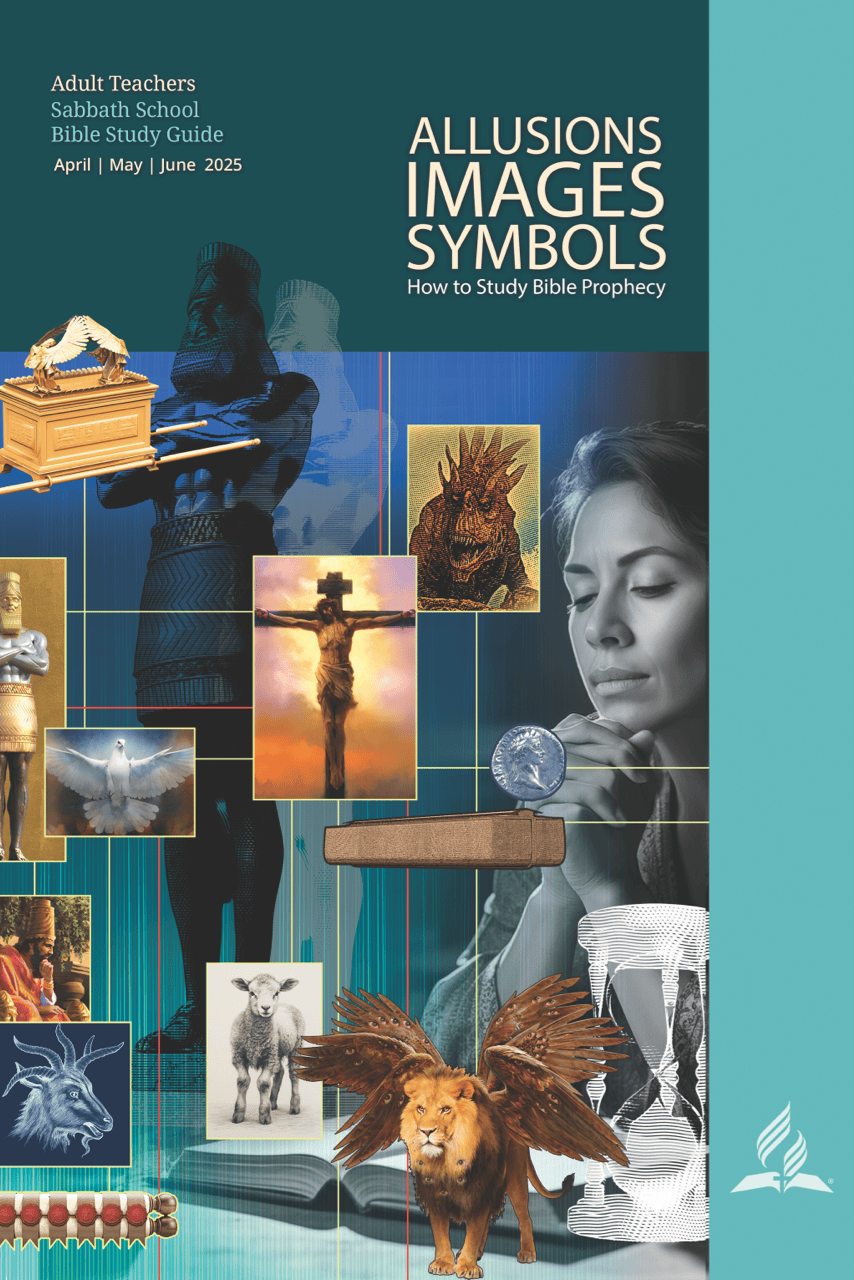
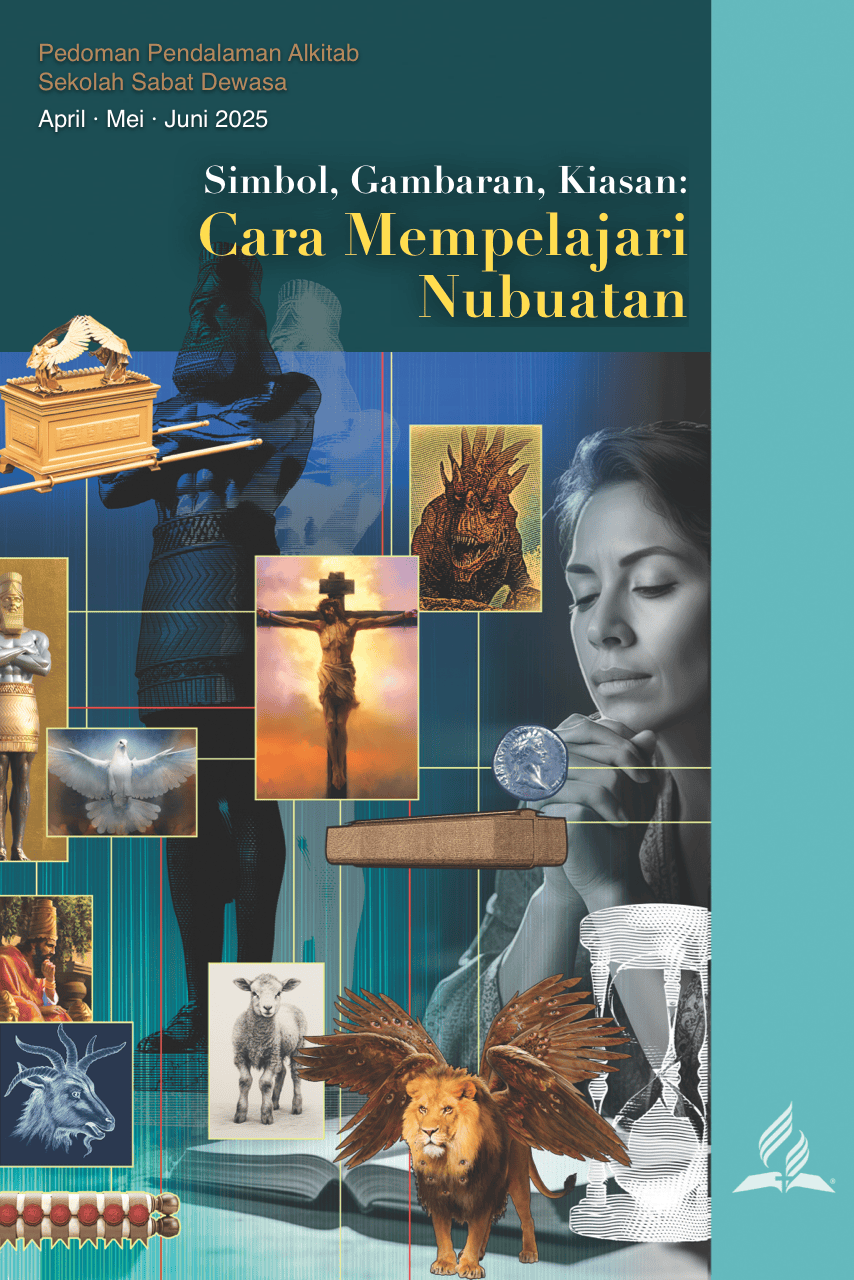
Formatting changes

diff --git a/src/in/2025-02/01/teacher-comments.md b/src/in/2025-02/01/teacher-comments.md
@@ -1,7 +1,73 @@
 ---
-title:  Teacher Comments
+title:  Penuntun guru
 date:   04/04/2025
 ---
 
-### Kami sedang mengerjakan pelajaran ini
-Silahkan kembali lagi nanti
+### Bagian I: Ikhtisar
+
+**Ayat Inti**: Yeremia 9:24.
+
+**Fokus Pelajaran**: 2 Tim. 3:15-17.
+
+Pada awal kelas Alkitabnya setiap semester, seorang profesor seminari melibatkan murid-muridnya dengan pertanyaan sederhana, namun menantang: "Apa alat terpenting yang Anda miliki untuk membantu Anda memahami Alkitab?" Para siswa menawarkan apa yang mereka anggap sebagai jawaban terbaik: "Kamus Alkitab," "doa," "Roh Kudus," "bahasa alkitabiah" (Ibrani, Yunani), "Perangkat lunak Alkitab," dan seterusnya. Setelah mendengarkan semua jawaban mereka, profesor memberi tahu mereka bahwa, sementara semua hal ini, memang, tidak diragukan lagi membantu, ada satu alat yang tidak mereka sebutkan, yaitu, selain doa dan Roh Kudus, sumber daya terpenting mereka dari semuanya: waktu.
+
+Tidak dapat disangkal, salah satu alat terpenting yang dibutuhkan ketika mendekati Kitab Suci adalah satu alat yang, terlalu sering tampaknya, kita memiliki paling sedikit: waktu. Setelah kita siap dan bersedia untuk menginvestasikan waktu dalam usaha mempelajari Alkitab, kita kemudian dituntun untuk mempertimbangkan pertanyaan berikut: Bagaimana kita membaca Alkitab? Artinya, prinsip-prinsip apa yang harus membimbing kita di jalan mencari dan memahami Buku khusus ini?
+
+Tema Pelajaran: Minggu ini, kita akan memeriksa sepuluh prinsip untuk membaca teks nubuatan alkitabiah. Lima prinsip pertama akan fokus pada teks itu sendiri: membacanya secara jujur (sebagai teks baru), membacanya dengan hati-hati (sebagai teks penting), membacanya secara estetis (sebagai teks yang indah), membacanya secara kontekstual (dalam pengaturan alkitabiahnya), dan membacanya secara intertekstual (dalam terang bagian-bagian alkitabiah lainnya).
+
+Lima prinsip berikutnya akan berfokus pada tanggapan kita terhadap teks untuk memastikan bahwa kita mendengarkan Firman Tuhan: prinsip membaca teks secara spiritual (sebagai teks yang terinspirasi), membacanya secara cerdas (sebagai teks yang sulit), membacanya secara korporat (sebagai teks untuk komunitas), membacanya secara eksistensial (sebagai teks yang melibatkan kehidupan kita), dan membacanya secara etis (untuk interpretasi yang bertanggung jawab).
+
+###  Bagian II: Komentar
+
+**Perhatian pada teks**
+
+Teks Alkitab adalah dasar dari setiap diskusi tentang nubuat Alkitab. Oleh karena itu, niat pertama pembaca adalah membaca teks nubuat Alkitab dengan pikiran yang mencari.
+
+1. Membaca dengan jujur. Baca teks seolah-olah itu adalah teks baru yang tidak Anda pahami. Sangat menarik bahwa Daniel sendiri mulai memahami nubuatnya, dalam Daniel 9:2, hanya setelah dia menyadari bahwa dia tidak memahaminya: "itu di luar pemahaman" (Dan. 8:27, NIV). Manusia, Alkitab memberi tahu kita, secara alami berada dalam "kegelapan" (Yohanes l:5, NKJV). Memang, godaan yang paling umum ketika kita mendekati nubuat Alkitab adalah percaya bahwa kita memahami pesannya, bahkan sebelum membaca teksnya. Dengan demikian, kita memaksakan pemikiran kita ke dalam teks (eisegesis), alih-alih membiarkan teks berbicara sendiri (eksegesis). Ini adalah kasus ketika kita membaca nubuat Alkitab dari sudut pandang penalaran kita sendiri atau dalam terang peristiwa yang terjadi di zaman kita.
+2. Membaca dengan Hati-hati. Nubuat Alkitab berisi informasi penting tentang nasib dunia dan kebenaran keselamatan yang vital (2 Tim. 3:15-17). Para nabi Alkitab dengan hati-hati memilih kata-kata dan bentuk ekspresi mereka untuk menyampaikan visi mereka yang diilhami. Oleh karena itu, bacalah teksnya secara perlahan, perhatikan kata-katanya. Bacalah beberapa kali untuk memastikan bahwa tidak ada yang terlewatkan dalam membaca teks. Dengan demikian, “kita akan menemukan mata air hidup menggelegak di mana pembaca yang ceroboh hanya melihat gurun.”—Ellen G. White, Pendidikan, hal. 191. Lebih baik mengakui bahwa Anda tidak memahami sesuatu daripada puas dengan pemahaman yang dangkal atau salah tentang sebuah teks.
+3. Membaca Secara Estetis. Bentuk sastra dari teks (strukturnya, paralelismenya) akan membantu dalam menguraikan pesan ramalan. Nubuat Daniel tentang gambar di Daniel 2 diklarifikasi dengan paralelnya dengan nubuat Daniel tentang empat binatang buas di Daniel 7. Ada juga kesejajaran antara nubuat dalam kitab Daniel dan dalam kitab Wahyu. Lihat bagan berikut di mana visi apokaliptik dalam Wahyu 13, 14 sejajar, dalam banyak hal, nubuat Daniel 7, yang juga sejajar dengan nubuat Daniel 8, sebagai berikut:
+
+|Daniel 7|Wahyu 13, 14|
+|-----|----|
+|Binatang dari laut (Dan. 7:1–3)|Binatang dari laut (Why. 13:1a)|
+|Singa (Dan. 7:4)|Binatang 10 tanduk (Why. 13:1b)|
+|Beruang (Dan. 7:5)|Macan tutul (Why. 13:2a)|
+|Macan tutul (Dan. 7:6)|Beruang (Why. 13:2b)|
+|Binatang 10 tanduk (Dan. 7:7)|Singa (Why. 13:2c)|
+|Merebut kekuasaan—tanduk kecil (Dan. 7:8)|Perebutan kekuasaan—binatang dari laut (Why. 13:3–18)|
+|Hari Pendamaian (Dan. 7:9–12/Dan. 8:14)|Pesan Tiga Malaikat (Why. 14:1–13)|
+|Anak Manusia (Dan. 7:13, 14)|Anak Manusia (Why. 14:14–16)|
+
+Paralel saat ini menunjukkan bahwa Hari Penebusan surgawi/Hari Penghakiman, dalam Daniel 7 dan 8, sesuai dengan, dan bertepatan dengan, proklamasi duniawi dari tiga pesan malaikat, dalam Wahyu 14.
+
+4\. Membaca secara kontekstual. Dalam konteks historisnya, peristiwa pertemuan militer antara tentara Babilonia utara dan tentara Mesir selatan di Karkemis (bandingkan Dan. 1:1 dengan Yer. 46:2) akan digunakan oleh nabi Daniel sebagai templat untuk ramalannya tentang perang eskatologis antara raja utara dan raja selatan, dalam pasal 11. Dalam konteks sastranya, fakta bahwa Daniel 7 ditulis dalam bahasa Aram, lingua franca pada masa itu, sementara Daniel 8 ditulis dalam bahasa Ibrani, bahasa Israel, menunjukkan bahwa nubuat Daniel 7 berfokus pada kerajaan-kerajaan bumi dan memiliki dampak universal, sementara nubuat Daniel 8 berfokus pada umat Tuhan dan memiliki dampak spiritual. 5. Membaca Secara Intertekstual. Mengingat bahwa teks kenabian adalah penafsirnya sendiri, perlu untuk mencari makna teks terutama dari dalam teks itu sendiri. Pendekatan ini juga berakar pada prinsip dasar yang ditetapkan oleh Ellen G. White dalam gema Reformis Martin Luther: “Kitab Suci menafsirkan Kitab Suci, satu bagian menjadi kunci dari bagian-bagian lain.”—Evangelisme, hal. 581. Misalnya, hubungan domba jantan dan kambing, dalam Daniel 8, selain banyak hubungan linguistiknya dengan Imamat 16, menunjukkan bahwa nubuat Daniel 8 mengacu pada Hari Penebusan.
+
+**Berfokus pada Respon Pribadi Seseorang**
+
+Kualitas studi nubuat seseorang juga tergantung pada pikiran orang yang mendekati teks.
+
+1. Membaca Secara Spiritual. Kitab Suci diilhami oleh Tuhan. Oleh karena itu, logis bahwa, untuk memahami teks tertentu secara penuh dan benar-benar, faktor spiritual harus dilibatkan. Karena hal-hal seperti itu harus "dilihat secara spiritual" (1 Kor. 2:14, NKJV). Secara praktis, ide ini berarti bahwa iman dan doa merupakan faktor penting dalam keberhasilan operasi eksegetis. Doa akan membawa bantuan Tuhan untuk belajar seseorang. Memiliki keyakinan bahwa Tuhan mengilhami teks nubuatan alkitabiah, dan percaya bahwa nubuat akan digenapi, akan memberikan kepada pikiran kapasitas untuk melihat penggenapannya di mana orang lain tidak akan melihat apa-apa.
+2. Membaca dengan Cerdas. Tugas memahami teks yang terinspirasi membutuhkan ketekunan dan upaya yang melelahkan di pihak kita. Pengkhotbah menyebut upaya ini "beban berat yang telah diberikan Tuhan kepada umat manusia!" (Eccles. 1:13, NIV). Kata kerja "mengerti" adalah kata kunci dalam kitab Daniel (muncil 15 kali). Karena “ 'biarkan dia yang bermegah dalam hal ini, bahwa dia mengerti dan mengenal Aku' ” (Yer. 9:24, NKJV). Dengan kata lain, mengenal Tuhan adalah tujuan akhir dari kebijaksanaan.
+3. Membaca secara Korporat. Sama seperti teks nubuatan alkitabiah telah datang kepada kita melalui kesaksian komunitas umat Tuhan, nubuat semacam itu juga ditakdirkan untuk komunitas umat Tuhan. Meskipun studi tentang Firman Tuhan tidak mengecualikan kontribusi kreatif individu, itu juga melibatkan saudara dan saudari lain dalam iman. Ketika Tuhan berbicara, Dia umumnya berbicara kepada umat-Nya sebagai komunitas ibadah: “ 'Dengarlah, hai Israel' ” (Ul. 6:4). Daniel meramalkan bahwa, pada akhir zaman, “ 'banyak' ” (yaitu, umat Tuhan, “ 'bijaksana' ”) “ 'akan mengerti' ” (Dan. 12:10, NKJV).
+4. Membaca Secara Eksistensial. Kecuali Kitab Suci mengubah kita dan memengaruhi hidup kita, kita tidak akan memahaminya. Untuk mengilustrasikan poin ini, sebaiknya kita mempertimbangkan cerita tentang seorang turis Eropa di Afrika yang mengejek hamba Afrikanya karena dia sedang membaca Alkitab: "Mengapa Anda membaca Alkitab?" Misionaris itu kemudian menambahkan, "Ini hanya sekumpulan dongeng." Pelayan Afrika itu menjawab: "Jika saya tidak membaca Alkitab, saya pasti sudah memakan Anda." Pelajaran ini berisi prinsip penting tentang efek kuat dari Firman Tuhan, yang dibandingkan dengan "pedang bermata dua" (Ibr. 4:12, NKJV). Dengan demikian, Firman kenabian Tuhan sedemikian rupa sehingga tidak hanya dapat memotong dengan tajam dosa-dosa musuh dan penindas kita, tetapi juga dapat berbicara atau bersaksi "'melawan'" kita (Yer. 28:8, NKJV).
+5. Membaca Secara Etis. Sayangnya, nubuat Alkitab sering digunakan untuk mendukung kesalahan manusia. Teori rasis, yang mempromosikan gagasan keunggulan ras kulit putih atas ras kulit hitam untuk membenarkan apartheid dan perbudakan, didasarkan pada pemahaman yang terdistorsi tentang ramalan Kejadian 9:25. Antisemitisme, yang menyebabkan pogrom dan Perang Salib dan memainkan peran penting dalam pembunuhan enam juta orang Yahudi, didasarkan pada dan dipelihara oleh salah tafsir nubuat Alkitab (Dan. 9:24). Sepanjang sejarah, pelecehan dan kejahatan yang dilakukan terhadap perempuan dalam lingkaran pribadi keluarga sering dibenarkan oleh referensi ke nubuat Kejadian 3:16. Ketika kita mempelajari Firman kenabian Tuhan pada kuartal ini, marilah kita mengizinkan Kitab Suci yang diilhami untuk mengambil kendali penuh atas pikiran dan hati kita, untuk tujuan memberikan "instruksi dalam kebenaran" (2 Tim. 3:16).
+
+### Bagian III: Aplikasi Kehidupan
+
+Terapkan pelajaran minggu ini pada pertanyaan-pertanyaan di bawah ini, dengan fokus pada 2 Timotius 3:15-17.
+
+**Perhatian pada Teks**:
+
+1. Apa kata kunci dari 2 Timotius 3:15-17?
+2. Diskusikan dan renungkan pentingnya kata-kata berikut: "Kitab Suci," "bijaksana", "diberikan," "lengkap."
+3. Mengapa studi Kitab Suci menginspirasi pemikiran kreatif?
+4. Apa struktur dari teks ini?
+5. Apa konteks dari bagian ini?
+6. Temukan dua teks Alkitab lainnya dengan tema yang sama (misalnya, Mazmur 119:97-104 dan Yohanes 5:39). Identifikasi kesejajaran antara teks-teks ini dan bandingkan serta kontraskan tema-temanya. Bagaimana mereka sama atau berbeda?
+
+**Berfokus pada Tanggapan Pribadi Anda**:
+
+1. Kata-kata mana dalam 2 Timotius 3:15-17 yang mengacu pada pentingnya, dan kebutuhan, untuk mendekati studi Kitab Suci dengan sikap hormat? Sebagai contoh, renungkan, dan diskusikan, kata-kata berikut: "Kitab Suci" (menyiratkan perlunya pendekatan spiritual), "diberikan" (hadiah dari Tuhan), "inspirasi" (pekerjaan dari Roh Kudus).
+2. Kata mana dalam teks yang mengacu pada kebutuhan untuk membaca dengan cerdas? Misalnya, renungkan dan diskusikan kata-kata berikut: "tahu" (fungsi kognitif; informasi untuk dipelajari), "bijaksana" (latihan berpikir), "instruksi" (kemampuan untuk menerima arahan dan mempelajari pelajaran baru).
+3. Kata-kata mana yang mengacu pada kebutuhan akan bacaan perusahaan? Misalnya, renungkan dan diskusikan kata-kata berikut: "dari masa kanak-kanak" (keterlibatan orang tua), "koreksi" (keterlibatan orang tua dan guru), "pekerjaan yang baik" (sesuatu yang dilakukan atas nama orang yang membutuhkan).
+4. Kata-kata mana yang mengacu pada kebutuhan untuk penerapan teks dalam kehidupan pribadi seseorang? Misalnya, renungkan dan diskusikan kata-kata berikut: "membuat Anda bijaksana" (mengasah rasa ketajaman dan penilaian pribadi seseorang). Kata-kata mana yang mengacu pada kebutuhan akan kepekaan etis? Sebagai contoh, renungkan dan diskusikan kata-kata berikut: "dalam kebenaran" (mengembangkan kapasitas untuk membedakan apa yang benar).

diff --git a/src/in/2025-02/01/06.md b/src/in/2025-02/01/06.md
@@ -5,11 +5,13 @@ date:   03/04/2025
 
 Salah satu masalah utama yang para pelajar nubuatan perlu hadapi adalah bagaimana menentukan apakah bahasa Alkitab harus dipahami secara harfiah atau kiasan. Bagaimana seseorang menentukan jika penulisnya sedang menggunakan bahasa simbolik, dan bagaimana seseorang mengetahui apa yang diwakili oleh simbol tersebut? Cara penting untuk melakukannya adalah dengan melihat bagaimana kiasan, simbol itu, digunakan di seluruh Alkitab, bukan bagaimana simbol itu digunakan di zaman sekarang. Misalnya, ada yang melihat simbol beruang dalam Daniel 7 menunjuk ke Rusia, karena gambaran itu sering digunakan saat ini sebagai simbol Rusia. Ini bukan cara yang tepat atau aman untuk menafsirkan simbolisme nubuatan.
 
-`Bacalah ayat-ayat berikut, yang mengizinkan Alkitab menjadi penafsirnya sendiri (untuk mendefinisikan istilahnya sendiri). Apakah simbol nubuatan yang umum untuk ayat-ayat dalam setiap kasus, dan apakah yang Alkitab katakan sebagai artinya?`
+**Bacalah ayat-ayat berikut, yang mengizinkan Alkitab menjadi penafsirnya sendiri (untuk mendefinisikan istilahnya sendiri). Apakah simbol nubuatan yang umum untuk ayat-ayat dalam setiap kasus, dan apakah yang Alkitab katakan sebagai artinya?**
 
-Dan. 7: 7; Dan. 8: 3; Dan. 7: 24
-Why. 1: 16; Ef 6: 17; Ibr. 4: 12
-Why. 12: 1; Why. 21: 2; Ef 5: 31, 32; Yer. 6: 2
+`Dan. 7: 7; Dan. 8: 3; Dan. 7: 24`
+
+`Why. 1: 16; Ef 6: 17; Ibr. 4: 12`
+
+`Why. 12: 1; Why. 21: 2; Ef 5: 31, 32; Yer. 6: 2`
 
 Dengan mengikuti aturan sederhana bahwa Alkitab harus diizinkan untuk mendefinisikan istilahnya sendiri, sebagian besar misteri di balik simbolisme nubuatan akan terpecahkan. Misalnya, kita melihat bahwa tanduk dapat melambangkan kekuatan politik atau bangsa. Pedang bisa melambangkan Firman Tuhan. Dan, ya, seorang wanita bisa melambangkan gereja. Di sini kita dapat dengan jelas melihat Alkitab menjelaskan dirinya sendiri.
 

diff --git a/src/in/2025-02/01/01.md b/src/in/2025-02/01/01.md
@@ -7,8 +7,7 @@ date:   29/03/2025
 Yer. 29:23, 24; Mzm 139:1–6; Dan. 12:4; Wahyu 22:10; 2 Tim. 3:15–17; Ibr. 4:12. 
 
 > <p>Ayat Hafalan:</p>
->  "tetapi siapa yang mau bermegah, baiklah bermegah karena yang berikut: bahwa ia memahami dan mengenal Aku, bahwa Akulah TUHAN yang menunjukkan kasih setia, keadilan dan kebenaran di bumi; sungguh, semuanya itu Kusukai, demikianlah firman TUHAN" (Yeremia 9: 24).
-
+> "tetapi siapa yang mau bermegah, baiklah bermegah karena yang berikut: bahwa ia memahami dan mengenal Aku, bahwa Akulah TUHAN yang menunjukkan kasih setia, keadilan dan kebenaran di bumi; sungguh, semuanya itu Kusukai, demikianlah firman TUHAN" (Yeremia 9: 24).
 
 Sebagaimana dengan hampir semua hal lain dalam Kitab Suci, orang-orang Kristen berselisih tentang nubuatan, yang sering kali memberi kesan pada orang lain bahwa nubuatan Alkitab adalah membuang-buang waktu. Lagi pula, jika orang kristen mempertengkarkan setiap titik dan koma dari nubuatan, seberapa benarkah itu? sayangnya, banyak orang percaya juga mulai berpikir bahwa beberapa kitab dalam Alkitab, seperti Wahyu, adalah tidak dapat dipahami. Bukannya membaca kitab-kitab tersebut, mereka juga menghindarinya, terkadang dengan dorongan dari seseorang yang menganjurkan bahwa mempelajari nubuatan menyebabkan lebih banyak masalah daripada penyelesaiannya.
 

diff --git a/src/in/2025-02/01/03.md b/src/in/2025-02/01/03.md
@@ -7,12 +7,15 @@ Tidak ada yang membuat frustrasi seperti kebutuhan mendesak untuk berkomunikasi,
 
 Dengan Tuhan, masalah yang berbeda muncul. "Seperti tingginya langit dari bumi," Dia katakan, "demikianlah tingginya jalan-Ku dari jalanmu dan rancangan- Ku dari rancanganmu"' (Yes. 55: 9). Masalahnya bukanlah Tuhan tidak memiliki kosa kata untuk berkomunikasi dengan kita; tetapi masalahnya adalah kita tidak memiliki kosakata atau kapasitas intelektual untuk memahami Dia sepenuhnya.
 
-`Apakah yang ayat-ayat berikut ini sarankan tentang pemahaman Tuhan dibandingkan dengan pemahaman kita sendiri?`
+**Apakah yang ayat-ayat berikut ini sarankan tentang pemahaman Tuhan dibandingkan dengan pemahaman kita sendiri?**
 
-`Mzm. 139: 1-6________________`
-`Mzm. 147: 5__________________`
-`Rm. 11: 33____________________`
-`1 Yoh. 3: 20___________________`
+`Mzm. 139: 1-6`
+
+`Mzm. 147: 5`
+
+`Rm. 11: 33`
+
+`1 Yoh. 3: 20`
 
 Kebenaran dari masalah ini adalah bahwa kita tidak akan pernah sepenuhnya memahami pikiran Tuhan karena Dia tidak terbatas dan Mahatahu. Lagi pula, kita hampir tidak bisa memahami segala sesuatu tentang Penciptaan; bagaimana kita bisa sepenuhnya memahami Penciptanya? Kita tidak bisa.
 
